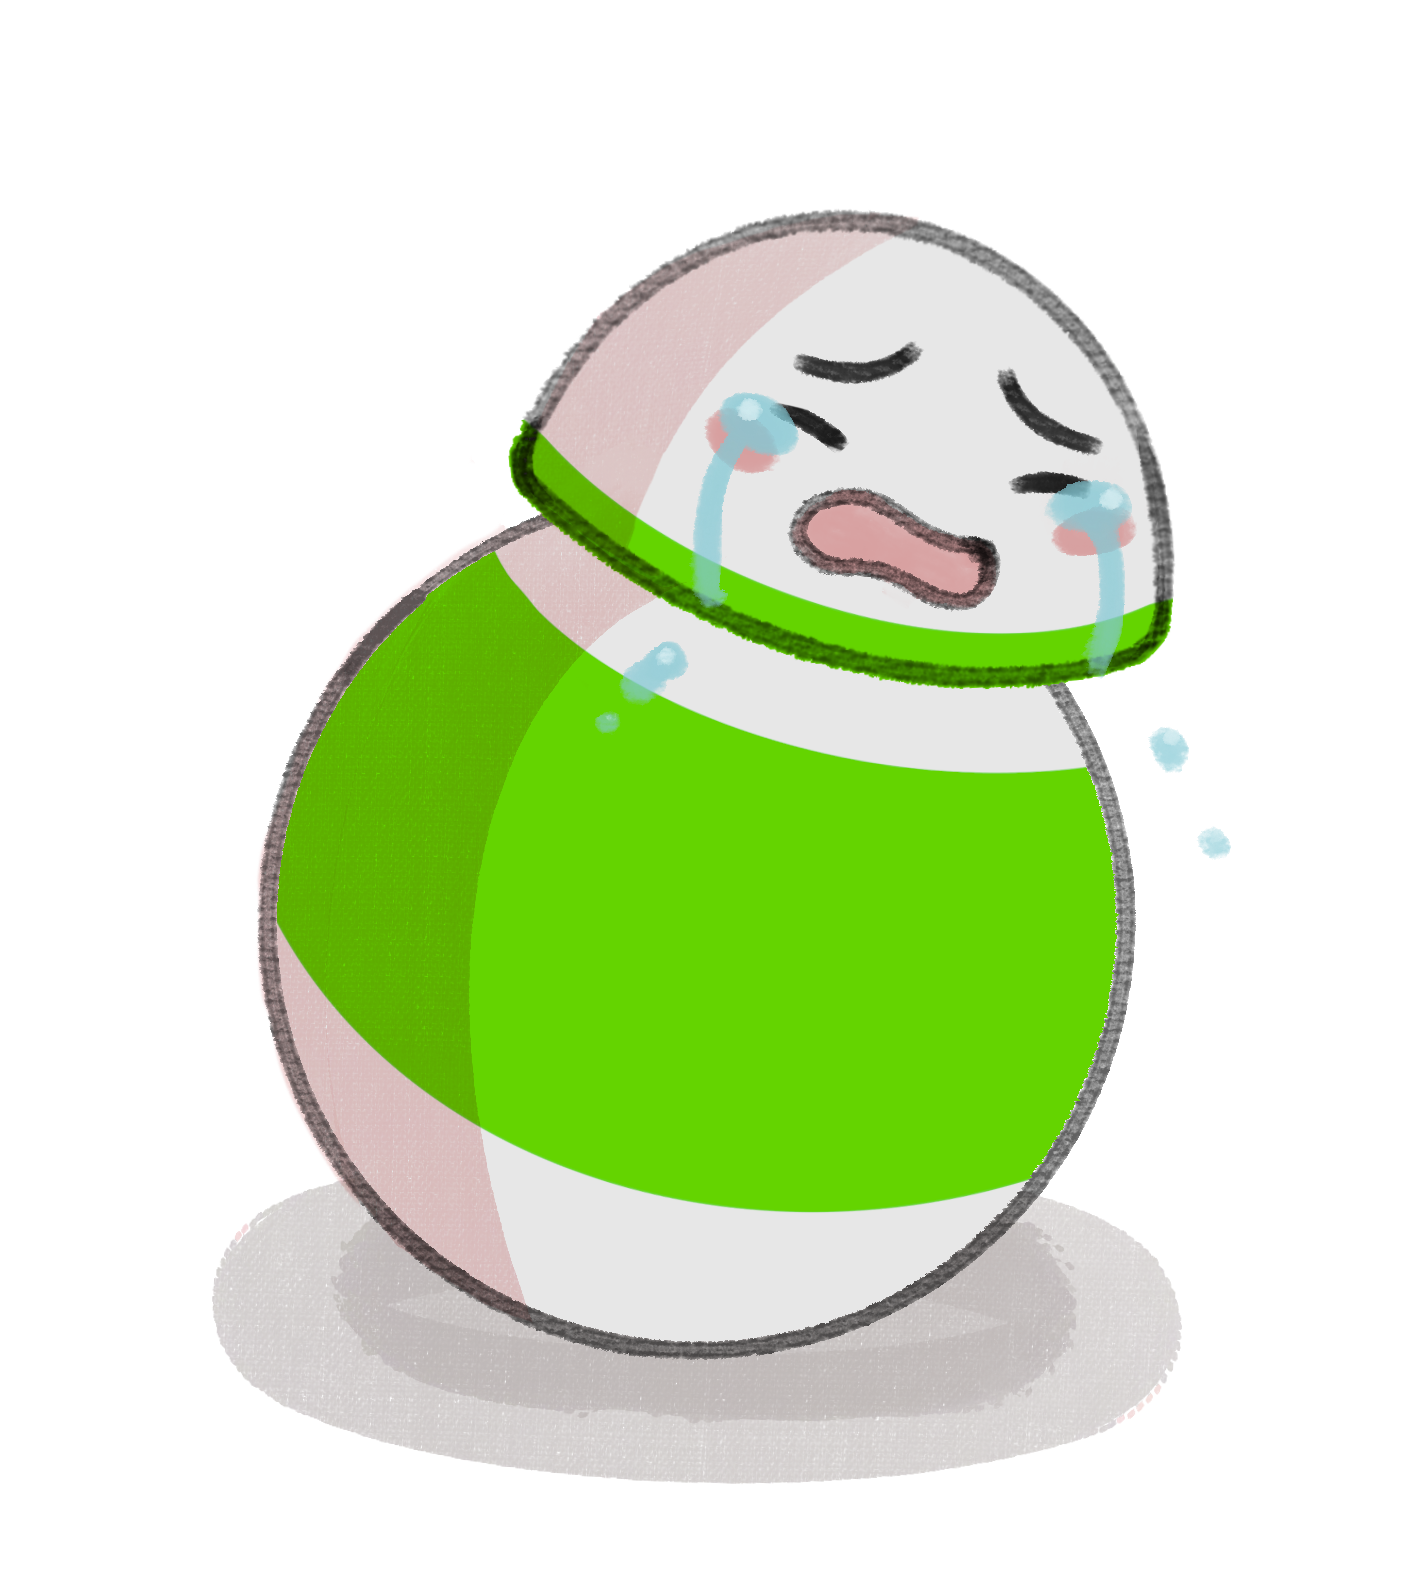
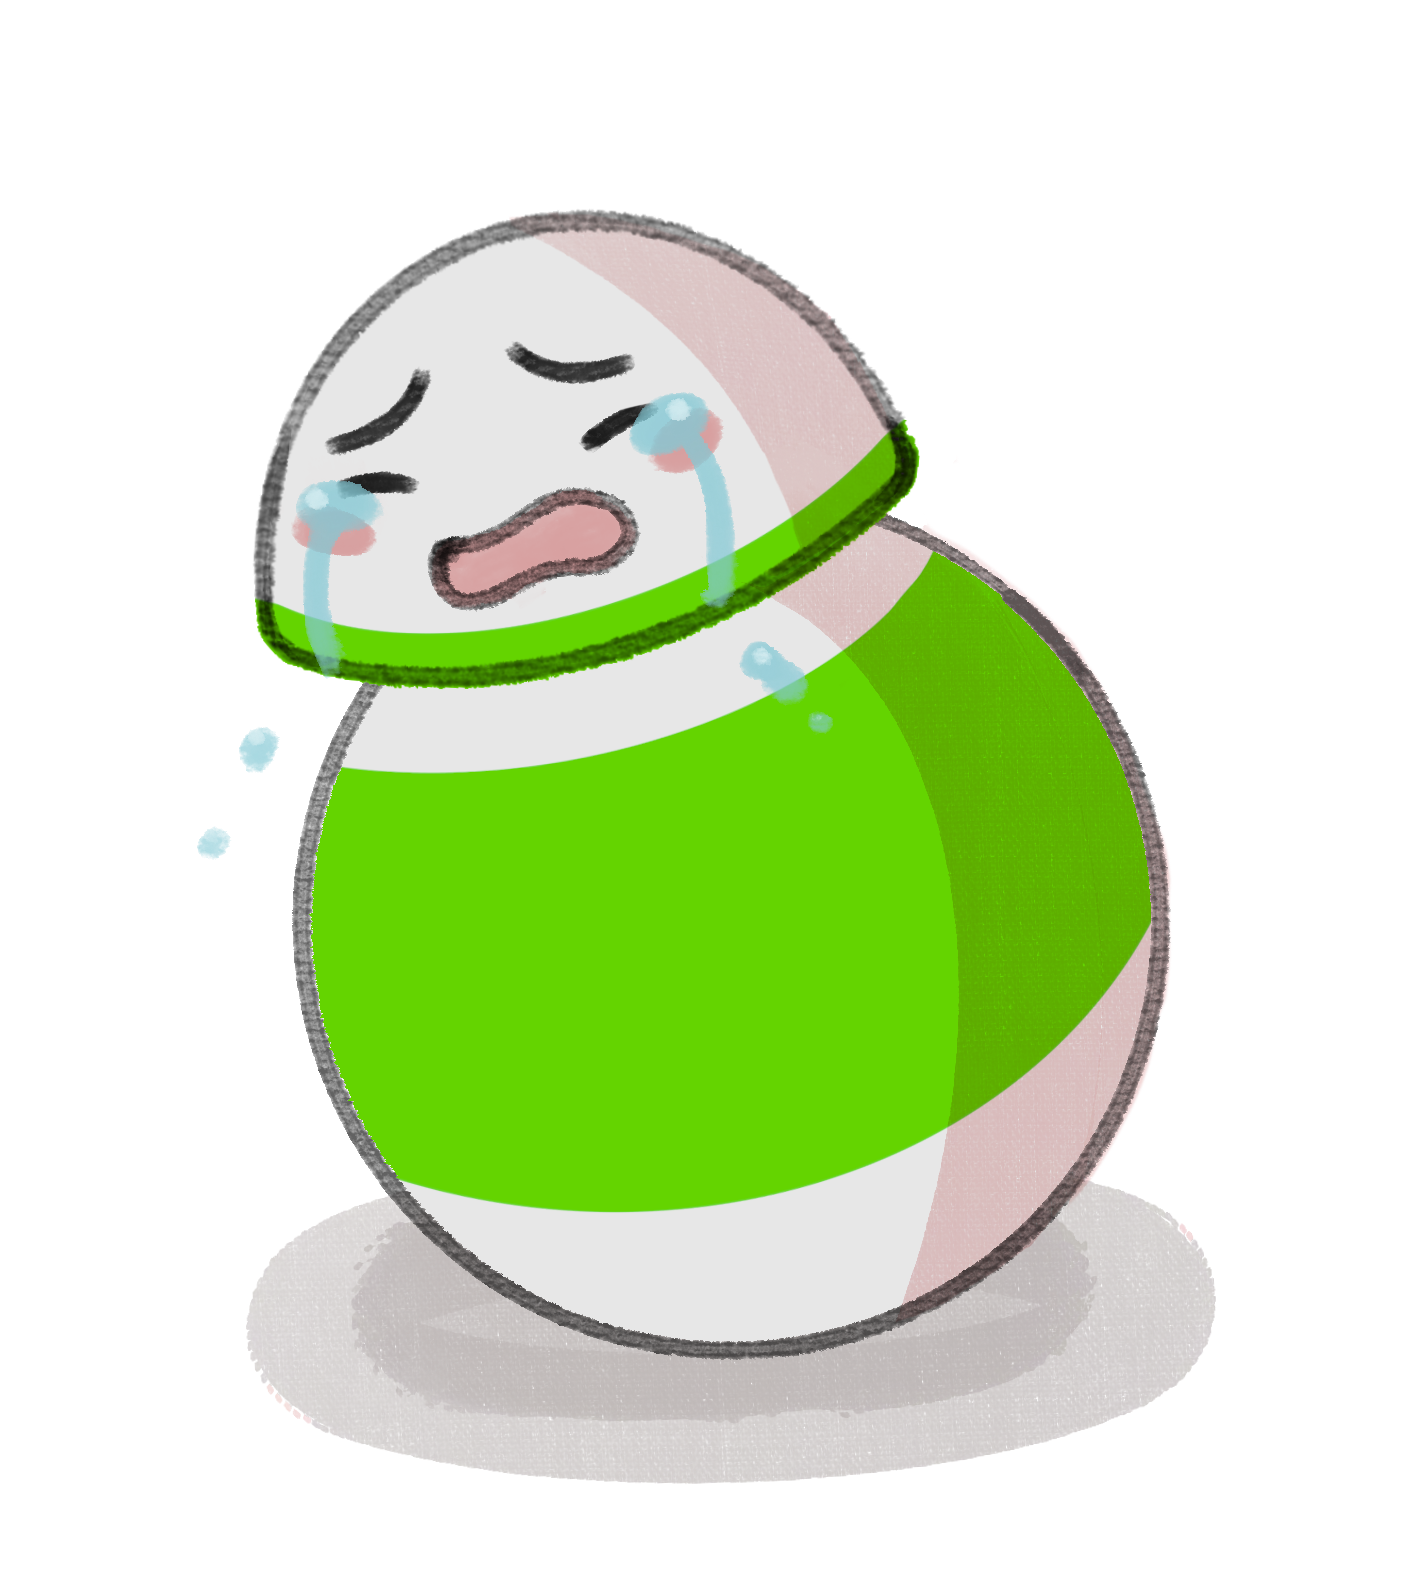
added the mascot

diff --git a/static/script.js b/static/script.js
@@ -1,3 +1,6 @@
+// Jess little guy counter
+let jessLittleGuyCounter = 3;
+
 //Setting Building Details
 const waterCost = 370; // type = 'W'
 const electricCost = 45; // type = 'E'
@@ -244,7 +247,7 @@ function draw() {
     // ground = Matter.Bodies.rectangle(windowWidth/2, windowHeight-20, windowWidth, 20, {isStatic: true})
     // Matter.World.add(world, ground);
     }
-  image(BBok, 80, 80);
+  image(BBok, 80, 80, 200, 200);
 }
 
 
@@ -292,9 +295,16 @@ function mouseClicked() {
   
 }
 
-function mouseP
+function mousePressed() {
+  for (var ball of allBalls) {
+    if (ball.ballClicked()) {
+      ball.mousePressed();
+    }
+  }
+}
 
 function mouseDragged() {
+  console.log("Dragged")
   for (var ball of fusion.getBalls()) {
     ball.mouseDragged();
   }
